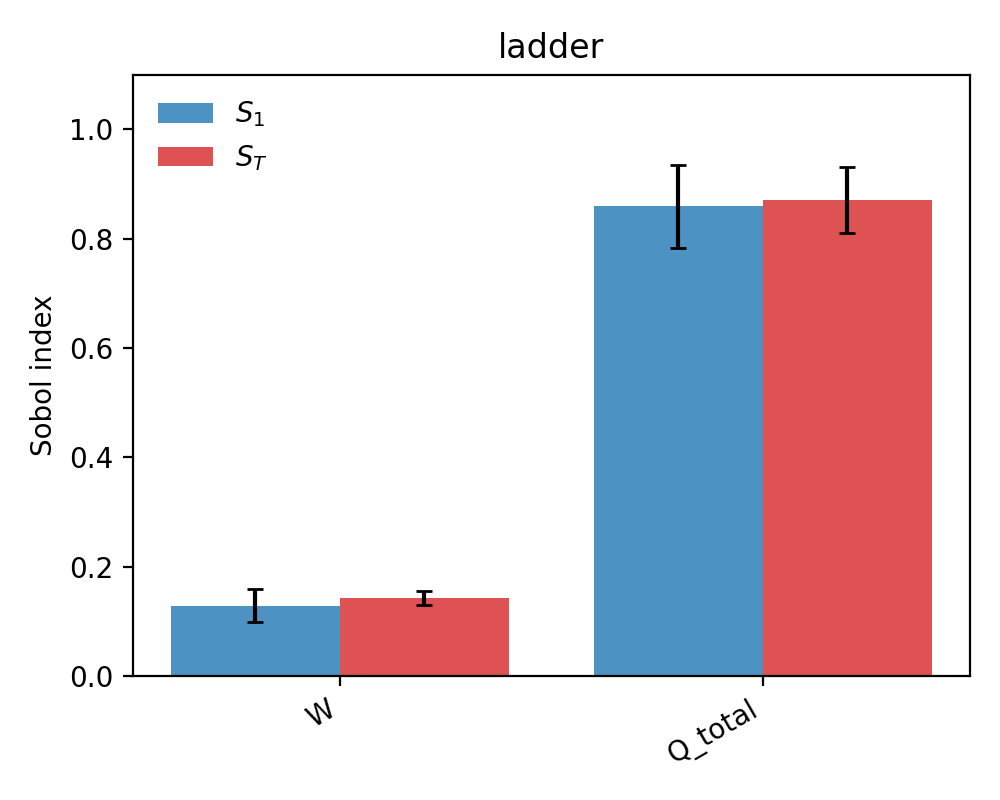
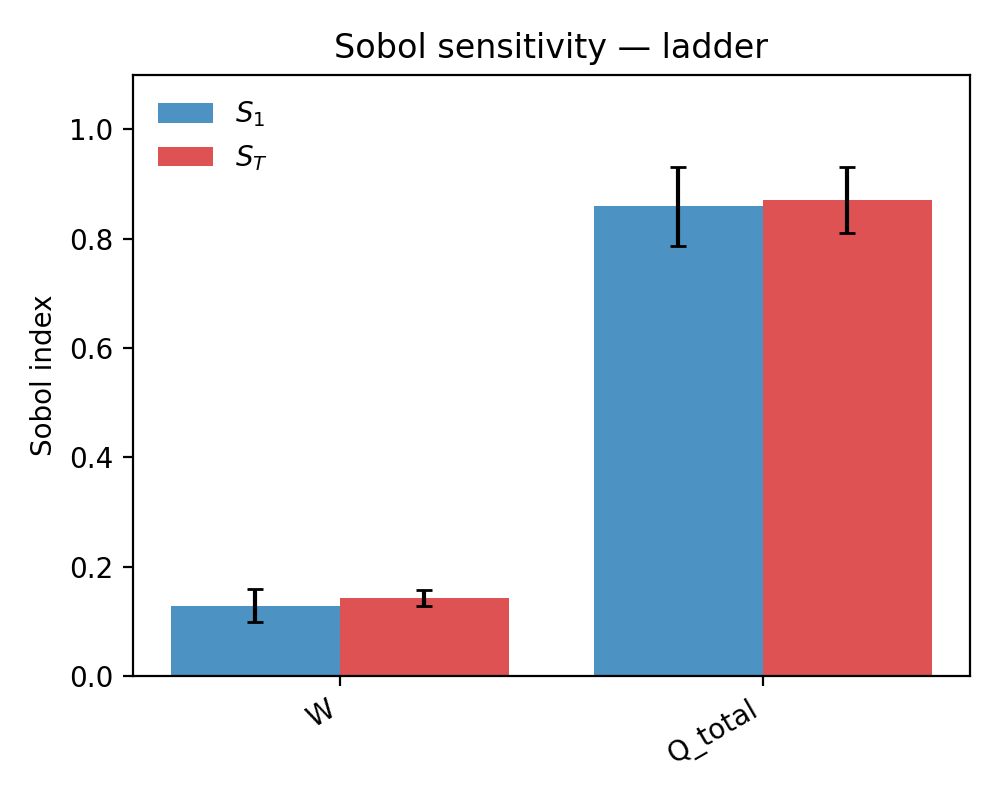
updating plots

Changed region(s): [[0.341, 0.0312, 0.775, 0.0938]]

diff --git a/scripts/visualize_topology_candidates.py b/scripts/visualize_topology_candidates.py
@@ -36,11 +36,11 @@ CMAP = LinearSegmentedColormap.from_list("conc", ["#2b6cb0", "#f7fafc", "#c53030
 
 
 def _new_axes(title: str, xlim, ylim, *, height=4.6):
-    fig, ax = plt.subplots(figsize=(11.0, height))
+    fig, ax = plt.subplots(figsize=(11.5, height))
     ax.set_title(title, fontsize=13, pad=10)
     ax.set_xlabel("x  (flow direction, μm)", fontsize=10, labelpad=6)
-    ax.set_ylabel("y  (μm)", fontsize=10, labelpad=6)
-    ax.tick_params(labelsize=8)
+    ax.set_ylabel("y  (μm)", fontsize=10, labelpad=10)
+    ax.tick_params(labelsize=8, pad=3)
     ax.set_aspect("equal")
     ax.set_xlim(*xlim)
     ax.set_ylim(*ylim)
@@ -75,7 +75,7 @@ def _save(fig, name: str):
 
 def render_ladder(N: int = 8):
     fig, ax = _new_axes(f"A. Y-stacked ladder  (N={N} inlets)  →  axis=y linear gradient   [WINNER]",
-                        xlim=(-1100, L + 1100), ylim=(-450, W + 450))
+                        xlim=(-2400, L + 1400), ylim=(-450, W + 450))
     _draw_chamber(ax)
 
     inlet_w = 250.0  # px in x for inlet patch
@@ -85,13 +85,13 @@ def render_ladder(N: int = 8):
         ax.add_patch(mpatches.Rectangle((-inlet_w, k * dy), inlet_w, dy,
                                         facecolor=CMAP(c), edgecolor="#1f2937",
                                         linewidth=0.6, zorder=2))
-    ax.text(-inlet_w * 1.15, W / 2, "N inlet strips\n(stacked in y)",
+    ax.text(-inlet_w - 250, W / 2, "N inlet strips\n(stacked in y)",
             ha="right", va="center", fontsize=9, color="#374151")
 
     # Outlet
     ax.add_patch(mpatches.Rectangle((L, 0), 250, W, facecolor="#22c55e",
                                     edgecolor="#15803d", alpha=0.75, zorder=2))
-    ax.text(L + 350, W / 2, "outlet", fontsize=10, color="#15803d", va="center")
+    ax.text(L + 400, W / 2, "outlet", fontsize=10, color="#15803d", va="center")
 
     # Flow arrow
     ax.annotate("", xy=(L * 0.55, W * 0.5), xytext=(L * 0.10, W * 0.5),
@@ -111,7 +111,7 @@ def render_christmas_tree():
     tree_x_end = -200.0
 
     fig, ax = _new_axes("B. Christmas-tree pre-mixer + chamber  →  axis=y linear gradient",
-                        xlim=(tree_x_start - 1500, L + 1100), ylim=(-W * 0.25, W * 1.15),
+                        xlim=(tree_x_start - 1700, L + 1700), ylim=(-W * 0.25, W * 1.15),
                         height=5.2)
     _draw_chamber(ax)
 
@@ -153,7 +153,7 @@ def render_christmas_tree():
 
     ax.add_patch(mpatches.Rectangle((L, 0), 250, W, facecolor="#22c55e",
                                     edgecolor="#15803d", alpha=0.75))
-    ax.text(L + 350, W / 2, "outlet", fontsize=10, color="#15803d", va="center")
+    ax.text(L + 400, W / 2, "outlet", fontsize=10, color="#15803d", va="center")
 
     ax.text(tree_x_start - 400, -W * 0.18, "2 reagent inputs", fontsize=9, color="#374151")
     ax.text((tree_x_start + tree_x_end) / 2, W * 1.05,
@@ -170,13 +170,13 @@ def render_christmas_tree():
 
 def render_side_injection(K: int = 8):
     fig, ax = _new_axes(f"C. Distributed side-injection  (K={K} drug ports along y=0)  →  axis=x linear gradient",
-                        xlim=(-1100, L + 1100), ylim=(-W * 0.55, W + 450))
+                        xlim=(-2400, L + 1400), ylim=(-W * 0.55, W + 450))
     _draw_chamber(ax)
 
     # Main medium inlet at x=0, full width (C=0)
     ax.add_patch(mpatches.Rectangle((-250, 0), 250, W, facecolor=CMAP(0.0),
                                     edgecolor="#1f2937", lw=0.6))
-    ax.text(-350, W / 2, "medium\nC=0", ha="right", va="center", fontsize=9,
+    ax.text(-500, W / 2, "medium\nC=0", ha="right", va="center", fontsize=9,
             color="#1e3a8a", fontweight="bold")
 
     # K side ports along y=0 with x-varying flow rate Q_k
@@ -200,7 +200,7 @@ def render_side_injection(K: int = 8):
 
     ax.add_patch(mpatches.Rectangle((L, 0), 250, W, facecolor="#22c55e",
                                     edgecolor="#15803d", alpha=0.75))
-    ax.text(L + 350, W / 2, "outlet", fontsize=10, color="#15803d", va="center")
+    ax.text(L + 400, W / 2, "outlet", fontsize=10, color="#15803d", va="center")
 
     # Flow arrow
     ax.annotate("", xy=(L * 0.55, W * 0.85), xytext=(L * 0.10, W * 0.85),
@@ -217,13 +217,13 @@ def render_side_injection(K: int = 8):
 
 def render_permeable_wall():
     fig, ax = _new_axes("D. Permeable floor membrane + reservoir  →  axis=x linear gradient",
-                        xlim=(-1100, L + 1100), ylim=(-450, W + 700))
+                        xlim=(-2400, L + 1400), ylim=(-450, W + 700))
     _draw_chamber(ax)
 
     # Main medium inlet (C=0)
     ax.add_patch(mpatches.Rectangle((-250, 0), 250, W, facecolor=CMAP(0.0),
                                     edgecolor="#1f2937", lw=0.6))
-    ax.text(-350, W / 2, "medium\nC=0", ha="right", va="center", fontsize=9,
+    ax.text(-500, W / 2, "medium\nC=0", ha="right", va="center", fontsize=9,
             color="#1e3a8a", fontweight="bold")
 
     # Permeable floor strips (top-down: permeability gradient shown as colour)
@@ -243,7 +243,7 @@ def render_permeable_wall():
 
     ax.add_patch(mpatches.Rectangle((L, 0), 250, W, facecolor="#22c55e",
                                     edgecolor="#15803d", alpha=0.75))
-    ax.text(L + 350, W / 2, "outlet", fontsize=10, color="#15803d", va="center")
+    ax.text(L + 400, W / 2, "outlet", fontsize=10, color="#15803d", va="center")
 
     ax.annotate("", xy=(L * 0.55, W * 0.5), xytext=(L * 0.10, W * 0.5),
                 arrowprops=dict(arrowstyle="->", color="#374151", lw=1.5))
@@ -259,7 +259,7 @@ def render_permeable_wall():
 
 def render_counter_flow():
     fig, ax = _new_axes("E. Counter-flow inlets  →  axis=x  (REJECTED — unsteady-flow risk)",
-                        xlim=(-1100, L + 1100), ylim=(-W * 0.3, W * 1.55))
+                        xlim=(-2400, L + 2400), ylim=(-W * 0.3, W * 1.55))
     _draw_chamber(ax)
 
     # Drug inlet at x=0 (small, low Q, C=1)
@@ -267,13 +267,13 @@ def render_counter_flow():
     drug_y1 = W * 0.6
     ax.add_patch(mpatches.Rectangle((-250, drug_y0), 250, drug_y1 - drug_y0,
                                     facecolor=CMAP(1.0), edgecolor="#7f1d1d", lw=0.7))
-    ax.text(-350, W * 0.5, "drug\nC=1\n(low Q)", ha="right", va="center",
+    ax.text(-500, W * 0.5, "drug\nC=1\n(low Q)", ha="right", va="center",
             fontsize=8.5, color="#7f1d1d", fontweight="bold")
 
     # Medium inlet at x=L (full face, high Q, C=0)
     ax.add_patch(mpatches.Rectangle((L, 0), 250, W, facecolor=CMAP(0.0),
                                     edgecolor="#1e3a8a", lw=0.7))
-    ax.text(L + 350, W / 2, "medium\nC=0\n(high Q)", ha="left", va="center",
+    ax.text(L + 500, W / 2, "medium\nC=0\n(high Q)", ha="left", va="center",
             fontsize=8.5, color="#1e3a8a", fontweight="bold")
 
     # Side outlets at y=0 and y=W, mid-chamber

diff --git a/ooc_optimizer/interpretability/pipeline.py b/ooc_optimizer/interpretability/pipeline.py
@@ -146,13 +146,17 @@ def analyse_winner(
 
     figs: Dict[str, Optional[str]] = {}
     if write_figures:
-        figs["sobol"] = str(plot_sobol_bar(sobol, out_dir / "sobol.png", title=run.get("topology")))
-        figs["local_sensitivity"] = str(
-            plot_local_sensitivity(grads, out_dir / "local_sensitivity.png", title=run.get("topology"))
-        )
-        figs["tolerance"] = str(
-            plot_tolerance_intervals(tolerances, out_dir / "tolerance.png", title=run.get("topology"))
-        )
+        topology_raw = run.get("topology") or ""
+        pretty_topology = topology_raw.replace("_", " ")
+        figs["sobol"] = str(plot_sobol_bar(
+            sobol, out_dir / "sobol.png",
+            title=f"Sobol sensitivity — {pretty_topology}"))
+        figs["local_sensitivity"] = str(plot_local_sensitivity(
+            grads, out_dir / "local_sensitivity.png",
+            title=f"Local sensitivity at optimum — {pretty_topology}"))
+        figs["tolerance"] = str(plot_tolerance_intervals(
+            tolerances, out_dir / "tolerance.png",
+            title=f"Fabrication tolerance — {pretty_topology}"))
 
     summary: Dict[str, Any] = {
         "state_dir": str(state_dir),
